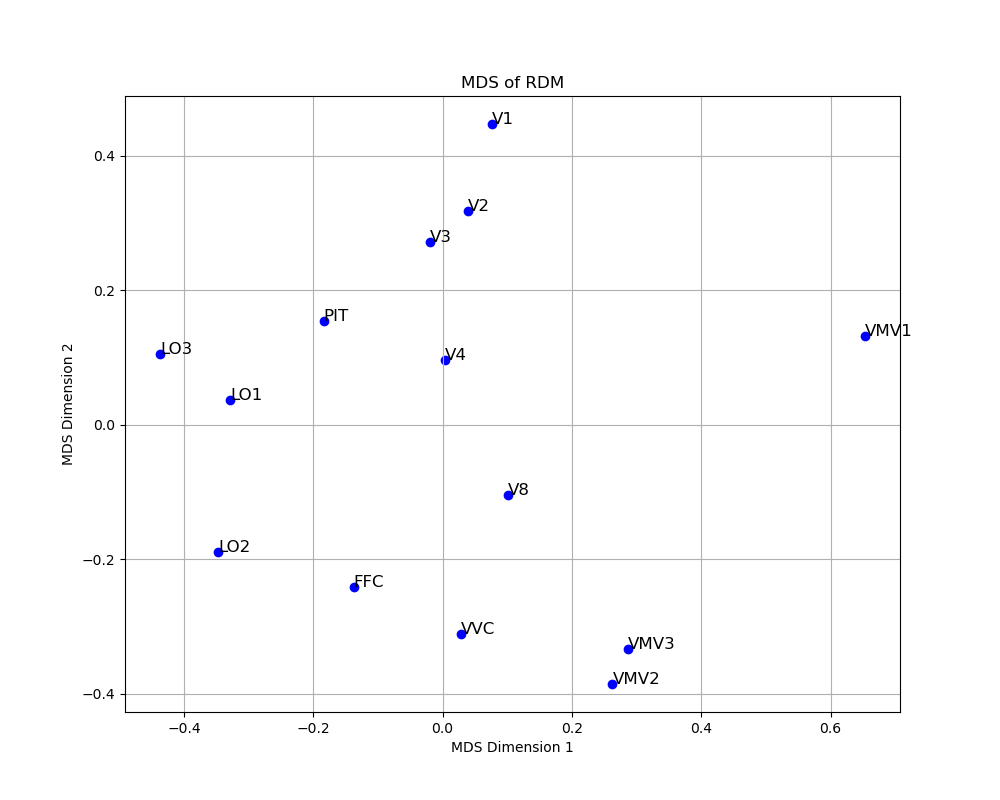
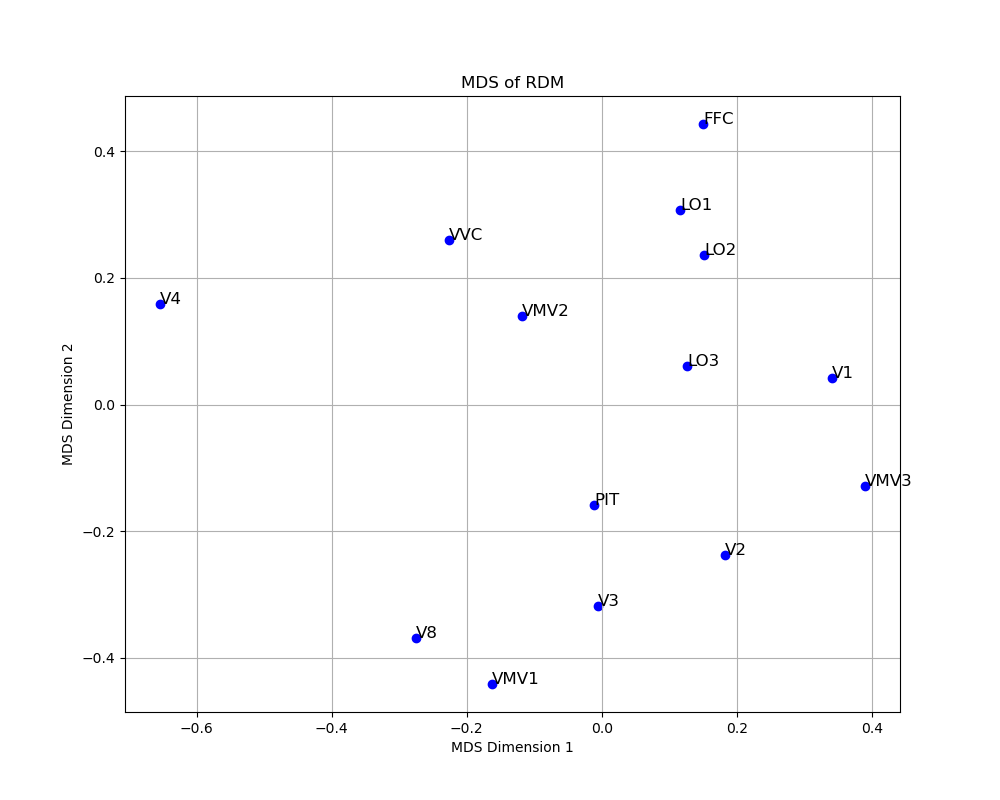
new wasserstein w/o averaging

diff --git a/scripts/analyze_intersubject_regions.py b/scripts/analyze_intersubject_regions.py
@@ -229,8 +229,11 @@ def compute_wasserstein_distance_matrix(all_fmri, regions):
         r1, r2 = regions[i], regions[j]
         data1 = all_fmri[r1]  # [stimuli, voxels, subjects]
         data2 = all_fmri[r2]
-        vec1 = data1.mean(axis=2).flatten()
-        vec2 = data2.mean(axis=2).flatten()
+        vec1 = data1.reshape(1, -1).flatten()  # Flatten the data
+        vec2 = data2.reshape(1, -1).flatten()  # Flatten the data
+        # vec1 = data1.mean(axis=2).flatten()
+        # vec2 = data2.mean(axis=2).flatten()
+        
         dist = wasserstein_distance(vec1, vec2)
         D[i, j] = D[j, i] = dist
     return D
@@ -267,7 +270,7 @@ def compare_all_fMRI():
     """
 
     regions = ["V1", "V2", "V3", "V4", "V8", "PIT", "FFC", "VVC", "VMV1", "VMV2", "VMV3", "LO1", "LO2", "LO3"]
-    regions.sort()
+    # regions.sort()
     
     subject_n = 30
     session = 'imagenet01'
@@ -345,16 +348,14 @@ def compare_all_fMRI():
             else:
                 all_fmri[region] = np.append(all_fmri[region], sorted_activations, axis=2)
                 print(f"Shape of all_fmri[{region}]: {all_fmri[region].shape}")
-    # quit()
-    if wasserstein:
-        ### IMPLEMENT WASSERSTEIN DISTANCE MAPPING ###
-        grid = compute_wasserstein_distance_matrix(all_fmri, regions)
-        plot_rdm(grid, 'Wasserstein Distance', regions, save_dir, fname='wasserstein_distance_matrix.png', title='Wasserstein Distance Matrix for All Regions', clim=None)
-    else:
-        ### IMPLEMENT CROSS VALIDATED LINEAR MAPPING ###
-        grid = compute_crossval_mapping_distance_matrix(all_fmri, regions)
-        plot_rdm(grid, 'Cross-Validated Linear Mapping Distance', regions, save_dir, fname='crossval_mapping_distance_matrix.png', title='Cross-Validated Linear Mapping Distance Matrix for All Regions', clim=None)
-    print(f"Shape of grid: {grid.shape}")
+    # quit()\
+    
+    grid = compute_wasserstein_distance_matrix(all_fmri, regions)
+    plot_rdm(grid, 'Wasserstein Distance', regions, save_dir, fname='wasserstein_distance_matrix.png', title='Wasserstein Distance Matrix for All Regions', clim=None)\
+    
+    # grid = compute_crossval_mapping_distance_matrix(all_fmri, regions)
+    # plot_rdm(grid, 'Cross-Validated Linear Mapping Distance', regions, save_dir, fname='crossval_mapping_distance_matrix.png', title='Cross-Validated Linear Mapping Distance Matrix for All Regions', clim=None)
+    # print(f"Shape of grid: {grid.shape}")
     # plot the grid
     
 

diff --git a/scripts/analyze_intrasubject_regions.py b/scripts/analyze_intrasubject_regions.py
@@ -94,31 +94,37 @@ def plot_rdm(rdm_square, distance_metric, labels, save_dir, fname='region_region
 
 
 def main():
-    args = parse_args()
+    # args = parse_args()
     
-    rdm_dir = args.rdm_dir
-    subject_n = args.subject_n
-    
-    # Load RDMs for the specified subject
-    rdms = load_rdms(rdm_dir, subject_n)
-    
-    # convert RDMs to a 2d array for computing RDM again
-    rdm_data = np.array([rdms[region] for region in rdms])
+    # rdm_dir = args.rdm_dir
+    # subject_n = args.subject_n
+    rdm_dir = 'C:/Users/BrainInspired/Documents/GitHub/NaturalObjectDataset-Processing/Nick_RDMs/outputs'
+    subject_n = [i for i in range(1, 31)]
 
-    # compute RDM from the loaded RDMs
-    rdm = compute_rdm(rdm_data, metric='correlation') # region-region RDM
+    # hard coding to maintain order
+    regions = ["V1", "V2", "V3", "V4", "V8", "PIT", "FFC", "VVC", "VMV1", "VMV2", "VMV3", "LO1", "LO2", "LO3"]
 
-    # Create save directory if it doesn't exist
-    save_dir = os.path.join(rdm_dir, f'sub-{subject_n:02d}', 'mds_plots')
-    os.makedirs(save_dir, exist_ok=True)
+    for subject_n in subject_n:    
+        # Load RDMs for the specified subject
+        rdms = load_rdms(rdm_dir, subject_n)
+        
+        # convert RDMs to a 2d array for computing RDM again
+        rdm_data = np.array([rdms[region] for region in regions])
 
-    # Plot MDS of computed RDM
-    all_regions = list(rdms.keys())
-    plot_mds(rdm, all_regions, save_dir)
+        # compute RDM from the loaded RDMs
+        rdm = compute_rdm(rdm_data, metric='correlation') # region-region RDM
 
-    plot_rdm(rdm, 'correlation', all_regions, save_dir)
+        # Create save directory if it doesn't exist
+        save_dir = os.path.join(rdm_dir, f'sub-{subject_n:02d}', 'mds_plots')
+        os.makedirs(save_dir, exist_ok=True)
 
-    print(f"MDS plot saved to {save_dir}")
+        # Plot MDS of computed RDM
+        all_regions = list(rdms.keys())
+        plot_mds(rdm, all_regions, save_dir)
+
+        plot_rdm(rdm, 'correlation', all_regions, save_dir)
+
+        print(f"MDS plot saved to {save_dir}")
 
 
 if __name__ == "__main__":
